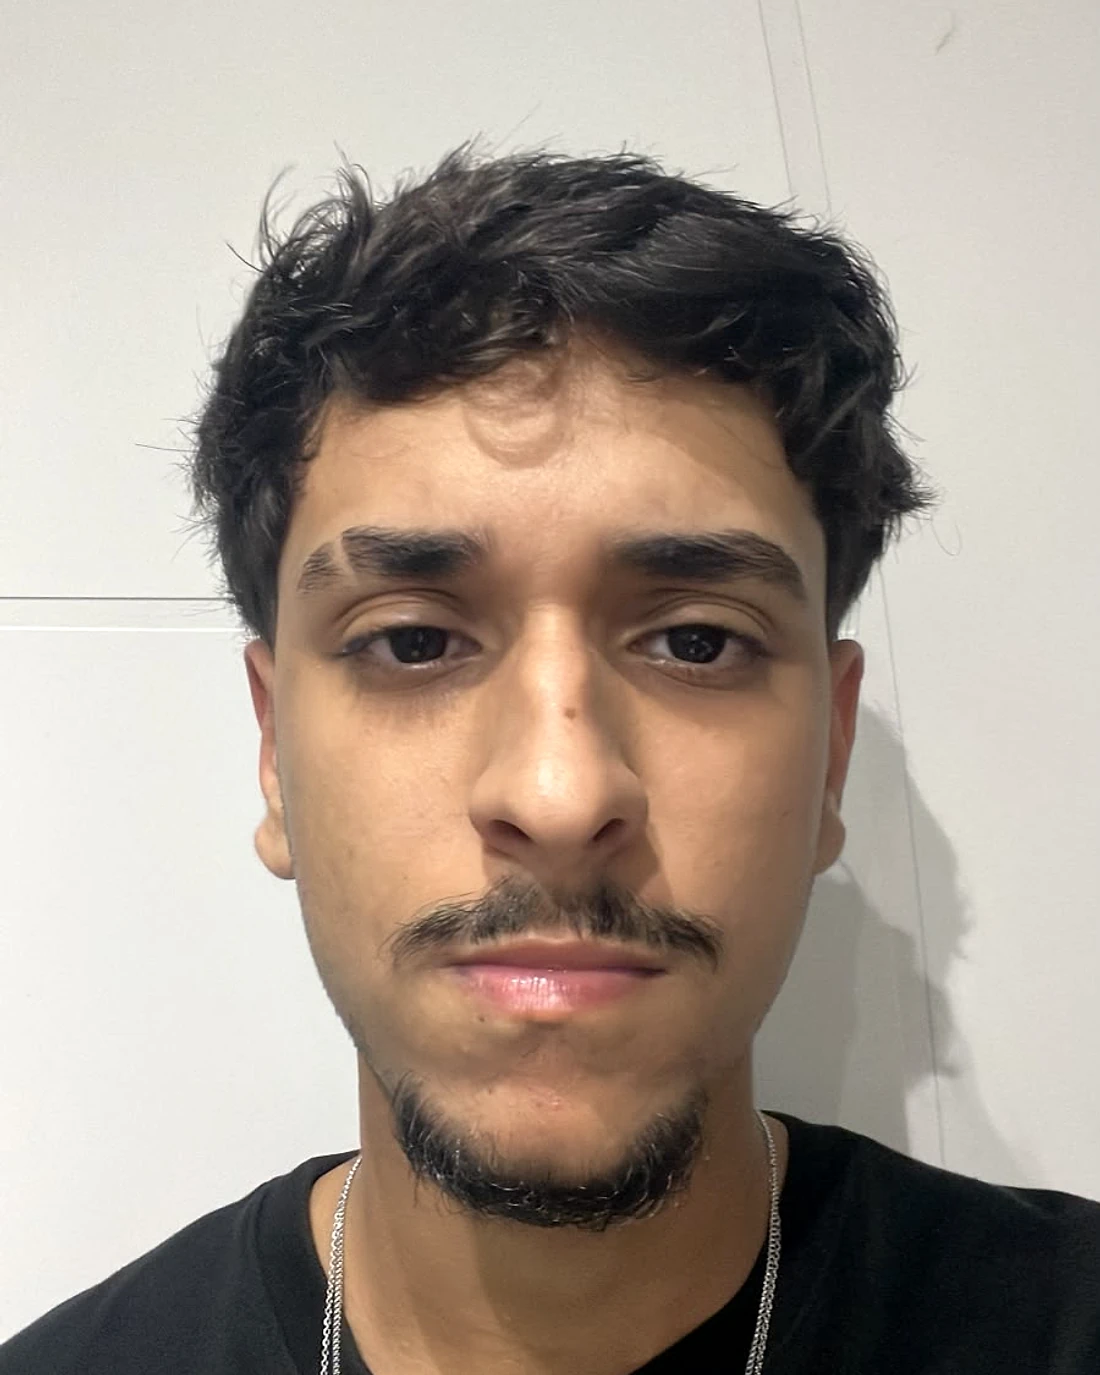
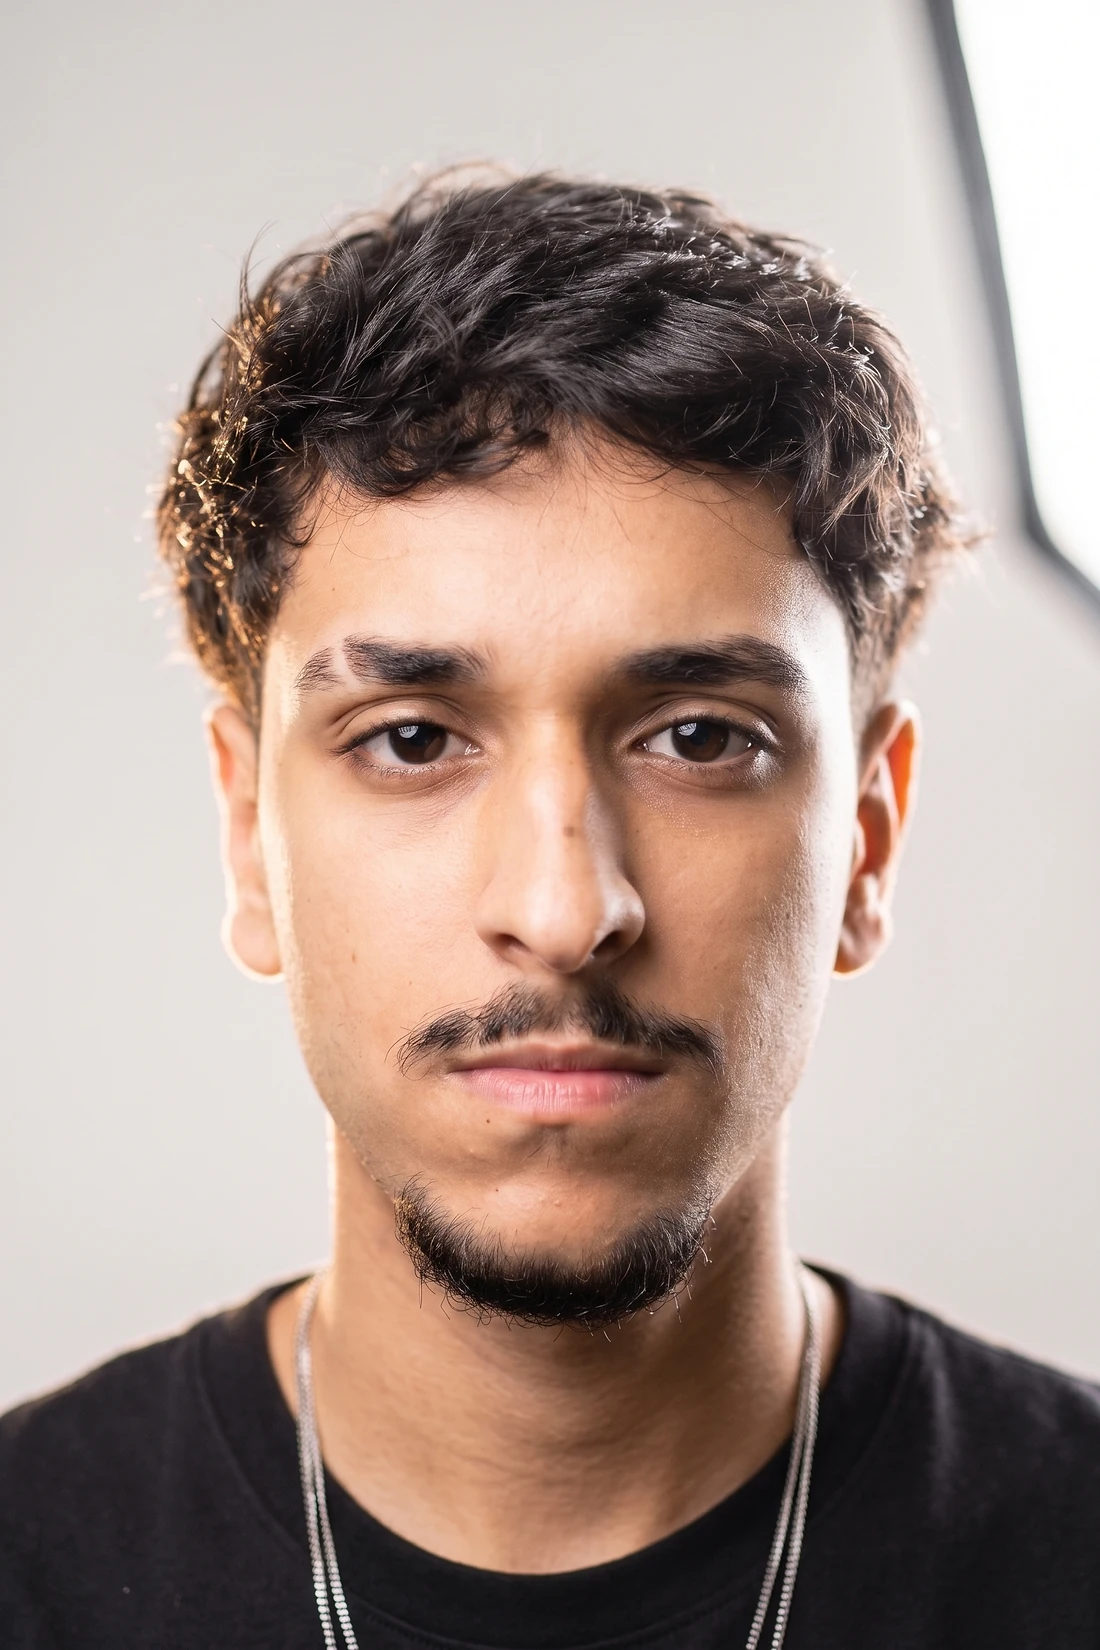
Troca o retrato pela foto nova e ajusta a moldura para 2:3
A foto nova é de estúdio, em 1536x2730 e já nítida, então recebeu só um
toque de nitidez para compensar a redução de escala.

A moldura passou de 4:5 para 2:3: nessa foto o rosto ocupa mais do
quadro, e no 4:5 o recorte cortava os ombros. No 2:3 sobra folga acima
do cabelo e a camiseta preta entra embaixo, fundindo no card escuro.

diff --git a/src/components/sections/About.tsx b/src/components/sections/About.tsx
@@ -99,7 +99,7 @@ export function About() {
             />
 
             <div className="relative overflow-hidden rounded-2xl border border-line bg-bg-card">
-              <div data-portrait-inner className="relative aspect-[4/5] w-full overflow-hidden">
+              <div data-portrait-inner className="relative aspect-[2/3] w-full overflow-hidden">
                 {/* eslint-disable-next-line @next/next/no-img-element -- asset local em /public */}
                 <img
                   data-portrait-img
@@ -107,8 +107,8 @@ export function About() {
                   srcSet="/images/about/gabriel-640.webp 640w, /images/about/gabriel-1100.webp 1100w"
                   sizes="(min-width: 768px) 40vw, 80vw"
                   alt="Gabriel Medeiros Garcia"
-                  width={900}
-                  height={1125}
+                  width={1536}
+                  height={2304}
                   className="h-full w-full object-cover object-center"
                 />
 
